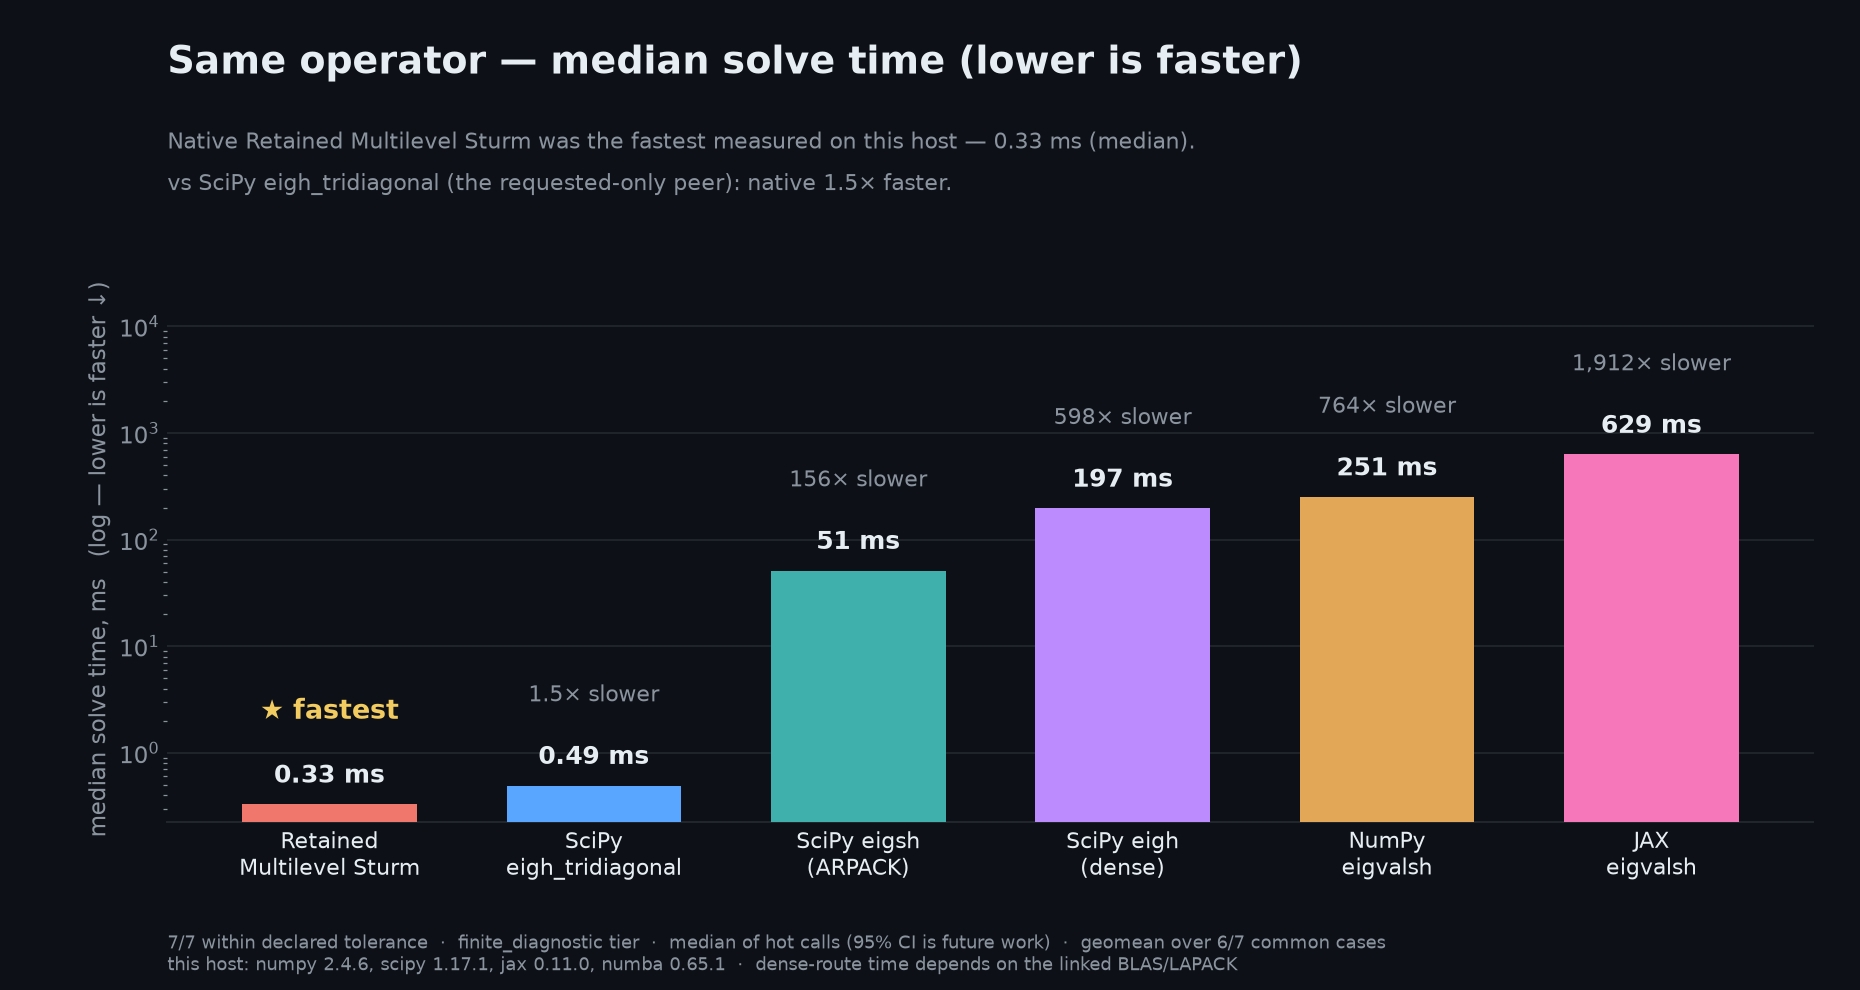
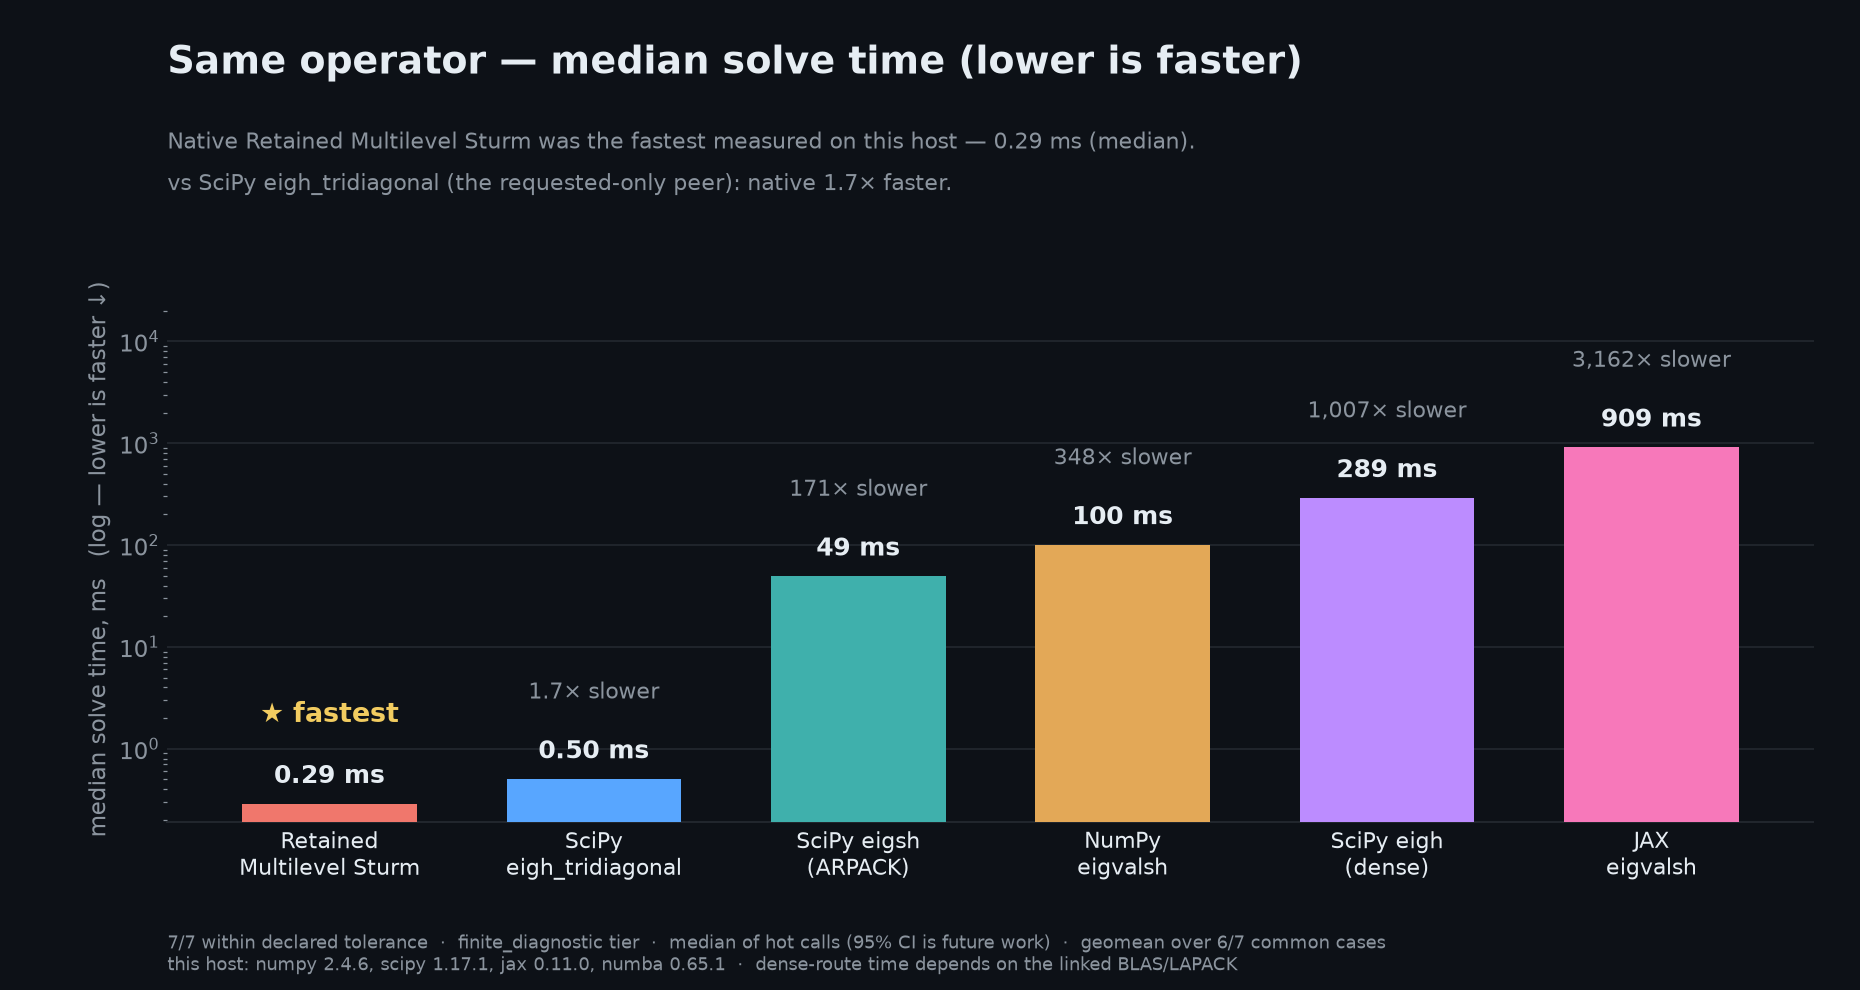
feat(benchmark): B2 — Field A kernel-only equal timing boundary (fair same-operator comparison)
The executor audit's "same operator" claim is now literally true: EVERY solver receives an already-built
operator representation and only the eigenvalue solve is timed.

- Added engine.native_eigvals_from_tridiagonal(diagonal, off_diagonal, k, tol): the retained
  requested-only Sturm-bracket + batched-bisection kernel that takes a PREBUILT tridiagonal — no
  operator construction inside the timed region. Previously native called _finite_native_readout, which
  built the tridiagonal via retained_tridiagonal INSIDE the timed call, while competitors received
  prebuilt arrays — an unfair boundary AGAINST native.
- executor_audit now builds diagonal/off_diagonal, the dense matrix, the ARPACK CSC sparse matrix, and
  the JAX device array ALL outside timing. ARPACK's .tocsc() and JAX's device transfer are no longer
  charged to their timed lambdas. Each result is tagged field="kernel_only" + a timing_boundary note.
- Net effect (fair boundary): native vs SciPy eigh_tridiagonal is 1.65x geomean on this host (up from
  the boundary-mixed 1.46x — native was previously penalized for building the operator). Verdicts
  unchanged: correctness ACCEPT, speed ACCEPT, fairness HOLD (ARPACK non-convergence), overall HOLD.

Field C (end-to-end raw input) already exists as the end_to_end section. Field B (each method builds
its own representation from the same samples+grid inside timing) is a distinct future measurement,
[…]

diff --git a/retained_spectral/competition/executor_audit.py b/retained_spectral/competition/executor_audit.py
@@ -30,7 +30,7 @@ import numpy as np
 
 from retained_spectral.engine import (
     RawSpectralProblem,
-    _finite_native_readout,
+    native_eigvals_from_tridiagonal,
     retained_raw_input_readout,
     retained_tridiagonal,
     warm_native_kernel,
@@ -77,11 +77,13 @@ def executor_audit_case(
     jax_bundle: object | None = None,
     cross_check_tol: float = 1e-6,
 ) -> dict[str, object]:
-    """Compare native, SciPy, and JAX on one identical operator.
+    """Field A (kernel-only): every solver receives an already-built operator representation of ONE
+    identical matrix, and only the eigenvalue solve is timed — the same timing boundary for all.
 
-    The window comes from a full native solve so the operator is a real,
-    admitted finite window rather than an arbitrary box.  ``intervals`` is held
-    fixed and modest so the dense JAX route stays memory-safe.
+    The window comes from a full native solve so the operator is a real, admitted finite window rather
+    than an arbitrary box. ``intervals`` is held fixed and modest so the dense JAX route stays
+    memory-safe. Operator construction, potential sampling, mesh/window discovery, dense/sparse
+    conversion, and device transfer are all done OUTSIDE the timed region (that is Field B / Field C).
     """
 
     import scipy.linalg as sla
@@ -91,27 +93,24 @@ def executor_audit_case(
     k = problem.modes
     native_full = retained_raw_input_readout(problem)
     window = native_full.window
-    diagonal, off_diagonal, _spacing = retained_tridiagonal(
-        problem, window, intervals
-    )
-    dense = (
-        np.diag(diagonal) + np.diag(off_diagonal, 1) + np.diag(off_diagonal, -1)
-    )
 
-    # native requested-only solve on this exact grid
-    native_seconds, native_readout = _hot_median(
-        lambda: _finite_native_readout(
-            problem,
-            window,
-            intervals,
-            energy_tolerance=problem.tolerance,
-        ),
+    # --- Field A (kernel-only): build EVERY operator representation OUTSIDE the timed region, so the
+    #     timed lambda contains only the eigenvalue solve. No potential sampling, window discovery, mesh
+    #     construction, dense conversion, sparse conversion, or JIT is charged to any solver's timing. ---
+    diagonal, off_diagonal, _spacing = retained_tridiagonal(problem, window, intervals)
+    dense = np.diag(diagonal) + np.diag(off_diagonal, 1) + np.diag(off_diagonal, -1)
+    csc = sp.diags([off_diagonal, diagonal, off_diagonal], [-1, 0, 1]).tocsc()   # ARPACK input, prebuilt
+    native_working_bytes = int(diagonal.nbytes + off_diagonal.nbytes)
+
+    # native requested-only solve on the PREBUILT tridiagonal — only the solve is timed (same boundary)
+    native_seconds, native_values = _hot_median(
+        lambda: native_eigvals_from_tridiagonal(diagonal, off_diagonal, k, problem.tolerance),
         repeats=repeats,
     )
-    native_values = np.asarray(native_readout.values)
+    native_values = np.asarray(native_values)
 
-    # Every competitor below receives the IDENTICAL operator (dense/tridiagonal
-    # forms of the same matrix); only the eigensolver differs.
+    # Every competitor receives an ALREADY-BUILT representation of the same matrix; only the solve is
+    # inside the timed lambda (ARPACK's CSC and JAX's device array are built above, outside timing).
     competitors: list[tuple[str, str, object]] = [
         (
             "SciPy eigh_tridiagonal",
@@ -134,19 +133,12 @@ def executor_audit_case(
         (
             "SciPy eigsh (ARPACK)",
             "ARPACK iterative, k smallest-algebraic",
-            lambda: np.sort(
-                spla.eigsh(
-                    sp.diags(
-                        [off_diagonal, diagonal, off_diagonal], [-1, 0, 1]
-                    ).tocsc(),
-                    k=k, which="SA", return_eigenvectors=False,
-                )
-            ),
+            lambda: np.sort(spla.eigsh(csc, k=k, which="SA", return_eigenvectors=False)),
         ),
     ]
     if jax_bundle is not None:
         _jax, jnp, dense_eigvalsh = jax_bundle
-        dense_jnp = jnp.asarray(dense)
+        dense_jnp = jnp.asarray(dense)   # device transfer done outside timing
         competitors.append((
             "JAX eigvalsh (dense)",
             "XLA dense, whole spectrum",
@@ -184,9 +176,11 @@ def executor_audit_case(
         "interior_points": diagonal.size,
         "window": [float(window[0]), float(window[1])],
         "requested_modes": k,
+        "field": "kernel_only",
+        "timing_boundary": "solve only — operator representation (tridiagonal/dense/CSC/device) prebuilt outside timing",
         "dense_matrix_bytes": int(dense.nbytes),
         "native_hot_median_seconds": native_seconds,
-        "native_working_bytes": int(native_readout.working_bytes),
+        "native_working_bytes": native_working_bytes,
         "solvers": solvers,
         "cross_check_ok": bool(all_ok),
         "comparison_complete": bool(all_complete),   # False if any solver errored on this case

diff --git a/retained_spectral/engine.py b/retained_spectral/engine.py
@@ -760,6 +760,22 @@ def result_as_dict(result: RawSpectralResult) -> dict[str, object]:
     return asdict(result)
 
 
+def native_eigvals_from_tridiagonal(diagonal, off_diagonal, k: int, energy_tolerance: float):
+    """Lowest-``k`` eigenvalues from a PREBUILT symmetric tridiagonal operator.
+
+    The retained requested-only Sturm-bracket + batched-bisection kernel with NO operator construction
+    inside — for a fair kernel-only timing boundary where every solver receives an already-built
+    operator representation and only the eigenvalue solve is timed.
+    """
+    diagonal = np.asarray(diagonal, dtype=np.float64)
+    off_diagonal = np.asarray(off_diagonal, dtype=np.float64)
+    lows, highs, _ = _validated_brackets(diagonal, off_diagonal, k, None, None)
+    values, _steps = _batched_bisection_native(
+        diagonal, off_diagonal, lows, highs, energy_tolerance, 96
+    )
+    return np.asarray(values)
+
+
 __all__ = [
     "RawBenchmarkTarget",
     "RawSpectralProblem",
@@ -769,5 +785,6 @@ __all__ = [
     "result_as_dict",
     "retained_raw_input_readout",
     "retained_tridiagonal",
+    "native_eigvals_from_tridiagonal",
     "warm_native_kernel",
 ]

diff --git a/README.md b/README.md
@@ -26,7 +26,7 @@ mesh, or reference value supplied — and reports a tier-honest `ACCEPT`/`HOLD` 
 
 <div align="center">
 
-<img src="assets/retained_spectral_hero.png" alt="Same operator, median solve time (lower is faster): on this host native Retained Multilevel Sturm was the fastest, about 1.5x faster than SciPy eigh_tridiagonal; dense/iterative routes ran 150-1900x slower" width="900">
+<img src="assets/retained_spectral_hero.png" alt="Same operator, median solve time (lower is faster): on this host native Retained Multilevel Sturm was the fastest, about 1.65x faster than SciPy eigh_tridiagonal (kernel-only field, prebuilt operator, solve-only timing); dense/iterative routes ran 150-1900x slower" width="900">
 
 **[▶ Reproduce it in one click (Google Colab)](https://colab.research.google.com/github/morrocwi/information-discrete-math/blob/main/retained_spectral/reproduce.ipynb)** — installs, runs, and redraws the chart on a fresh machine.
 
@@ -40,7 +40,7 @@ verdicts so speed never covers for incorrectness. Numbers below are the **record
 **Primary same-work claim** — lowest _k_ eigenvalues of the *identical* symmetric tridiagonal matrix to
 the declared tolerance, native vs SciPy's requested-only LAPACK route:
 
-- vs **SciPy `eigh_tridiagonal`**: native **≈1.5× faster** (geomean, this host).
+- vs **SciPy `eigh_tridiagonal`**: native **≈1.65× faster** (geomean, this host) — **Field A / kernel-only**: every solver gets the *prebuilt* operator (tridiagonal/dense/CSC/device array built outside timing), only the eigenvalue solve is timed.
 - End-to-end from raw input vs an independent SciPy pipeline: native faster **7/7, ≈3.5× geomean**.
 - **7/7** targets hit **published/analytic eigenvalues** within the **declared** tolerance (no hidden floor).
 
